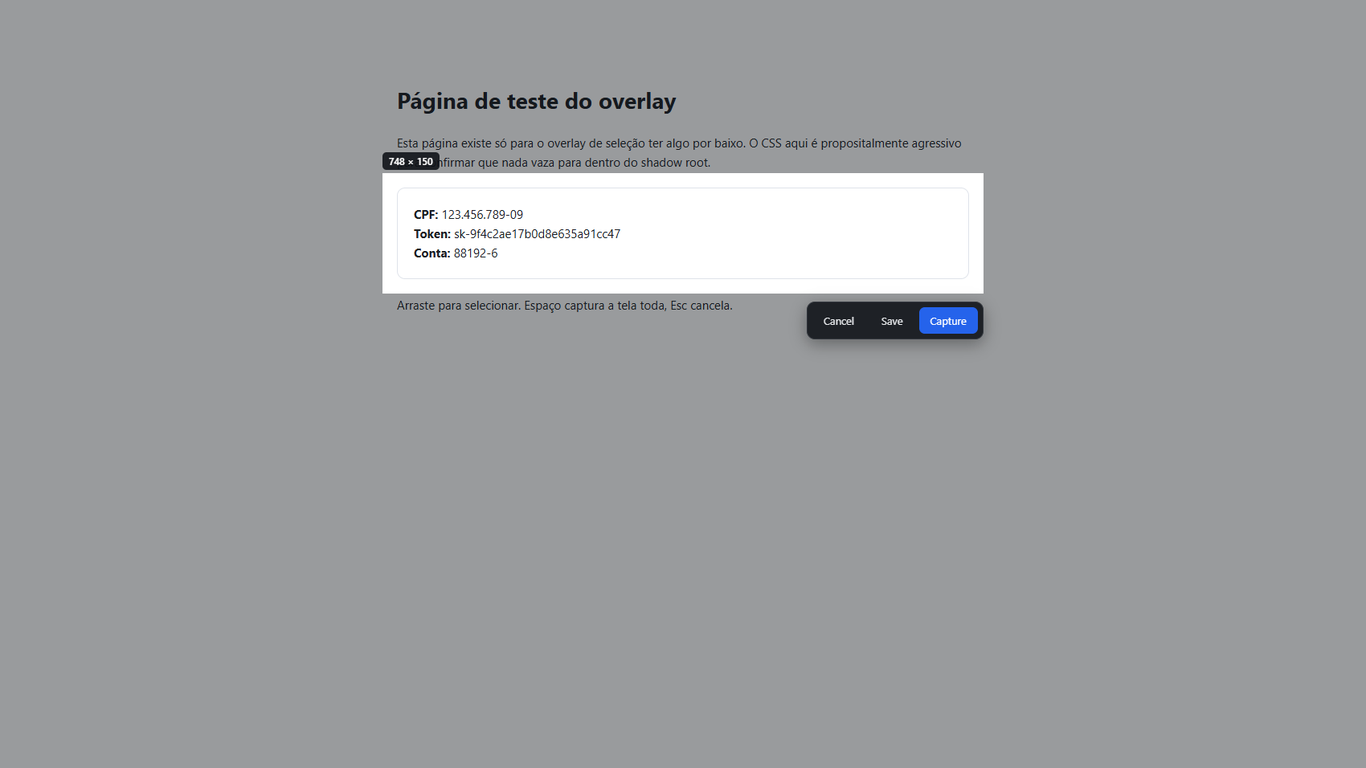
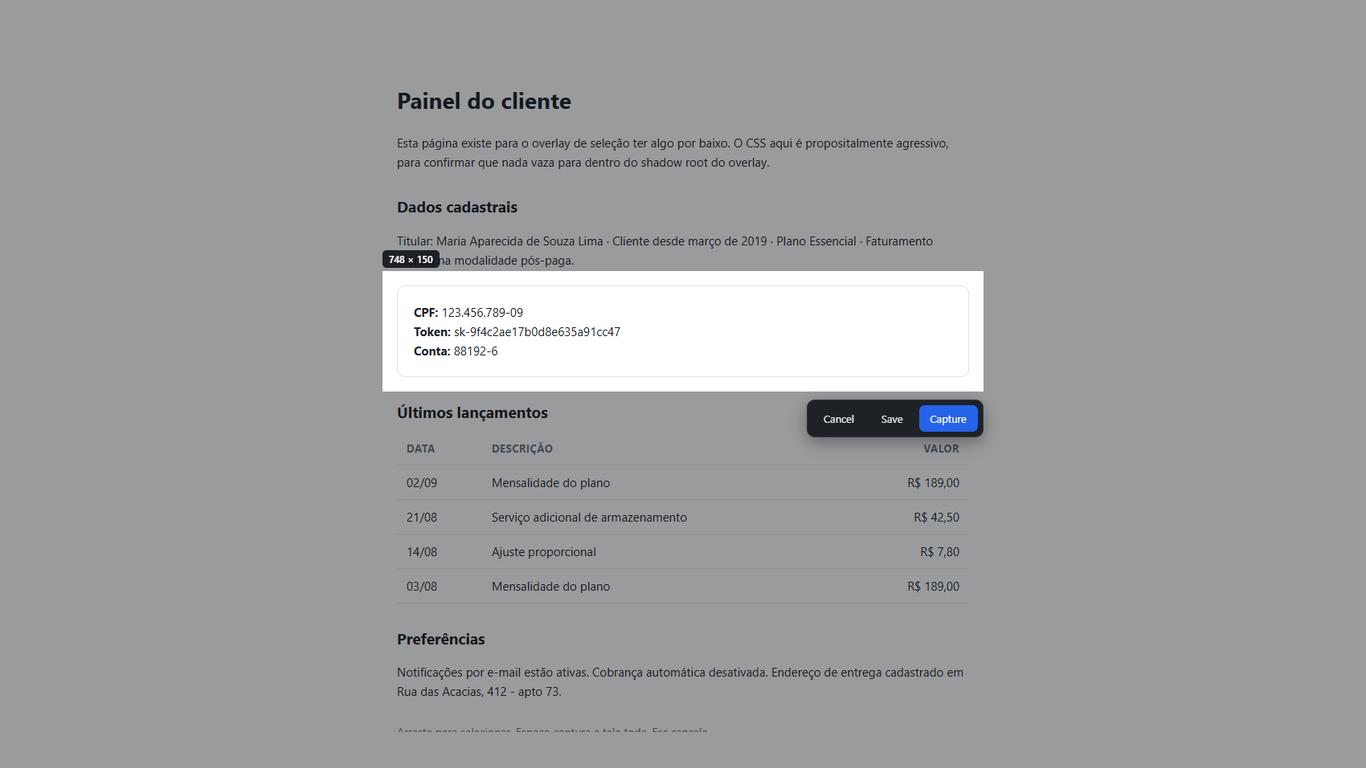
Screenshots da loja prontos, nos dois formatos
Os cinco quadros, cada um em 1280x800 para Chrome e AMO e 1366x768 para o Edge,
todos capturados com a propria extensao a partir dos presets do harness.

Nenhum dado real aparece: as paginas de exemplo tem CPF, token e conta
inventados, o que importa porque screenshot de loja e publico e permanente.

O store-listing.md passa a documentar como regenerar o conjunto: cada quadro tem
uma URL, entao na proxima versao basta reabrir as mesmas cinco e rodar o
processador.

diff --git a/docs/store-listing.md b/docs/store-listing.md
@@ -240,15 +240,33 @@ de ferramentas inteira visível. Mostra que é editor, não só captura.
 As três promessas na tela, mais o seletor de idioma aberto mostrando os 11
 idiomas. Fecha o argumento e sinaliza alcance internacional.
 
-### Como tirar
+### Como regenerar
 
-Com a própria SnapLocal, em **Parte visível** numa janela ajustada. É o teste
-mais honesto que existe: se os screenshots da loja ficaram bons, a ferramenta
-funciona.
+Cada quadro é montado por URL, então não é preciso lembrar onde arrastar nem
+que ferramenta escolher. Abra cada uma no navegador com a extensão instalada,
+pressione o atalho de **Parte visível** e salve:
 
-Para o quadro 1, o overlay some quando a captura dispara — então use o
-`tools/overlay-harness.html`, que mantém o overlay na tela, ou a tecla Print
-Screen do sistema.
+| Quadro | URL |
+|---|---|
+| 1 | `tools/overlay-harness.html?shot=area` |
+| 2 | `tools/harness.html?shot=blur` |
+| 3 | `tools/harness.html?shot=warn` |
+| 4 | `tools/harness.html?shot=annotate` |
+| 5 | a tela de Opções da extensão, via `Win+Shift+S` |
+
+O quadro 5 precisa da ferramenta do sistema: a SnapLocal se recusa a fotografar
+páginas de extensão, incluindo as próprias.
+
+Depois, com os arquivos numa pasta:
+
+```bash
+python -m http.server 8712
+python tools/make-store-shots.py <pasta>
+```
+
+O processador corta o rodapé morto, encaixa pelo menor fator (a tela de Opções
+é uma coluna em pé e seria cortada se escalasse pela largura), centraliza numa
+moldura da cor do próprio fundo e gera os dois formatos.
 
 ---
 
@@ -264,7 +282,7 @@ python tools/build.py
 - [ ] Pacote do Firefox carregado num Firefox real — ES module em background
       script ainda não foi confirmado
 - [ ] Política de privacidade respondendo na URL
-- [ ] Screenshots sem nenhum dado real
+- [x] Screenshots sem nenhum dado real, em `docs/store-assets/screenshots/`
 
 ---
 
